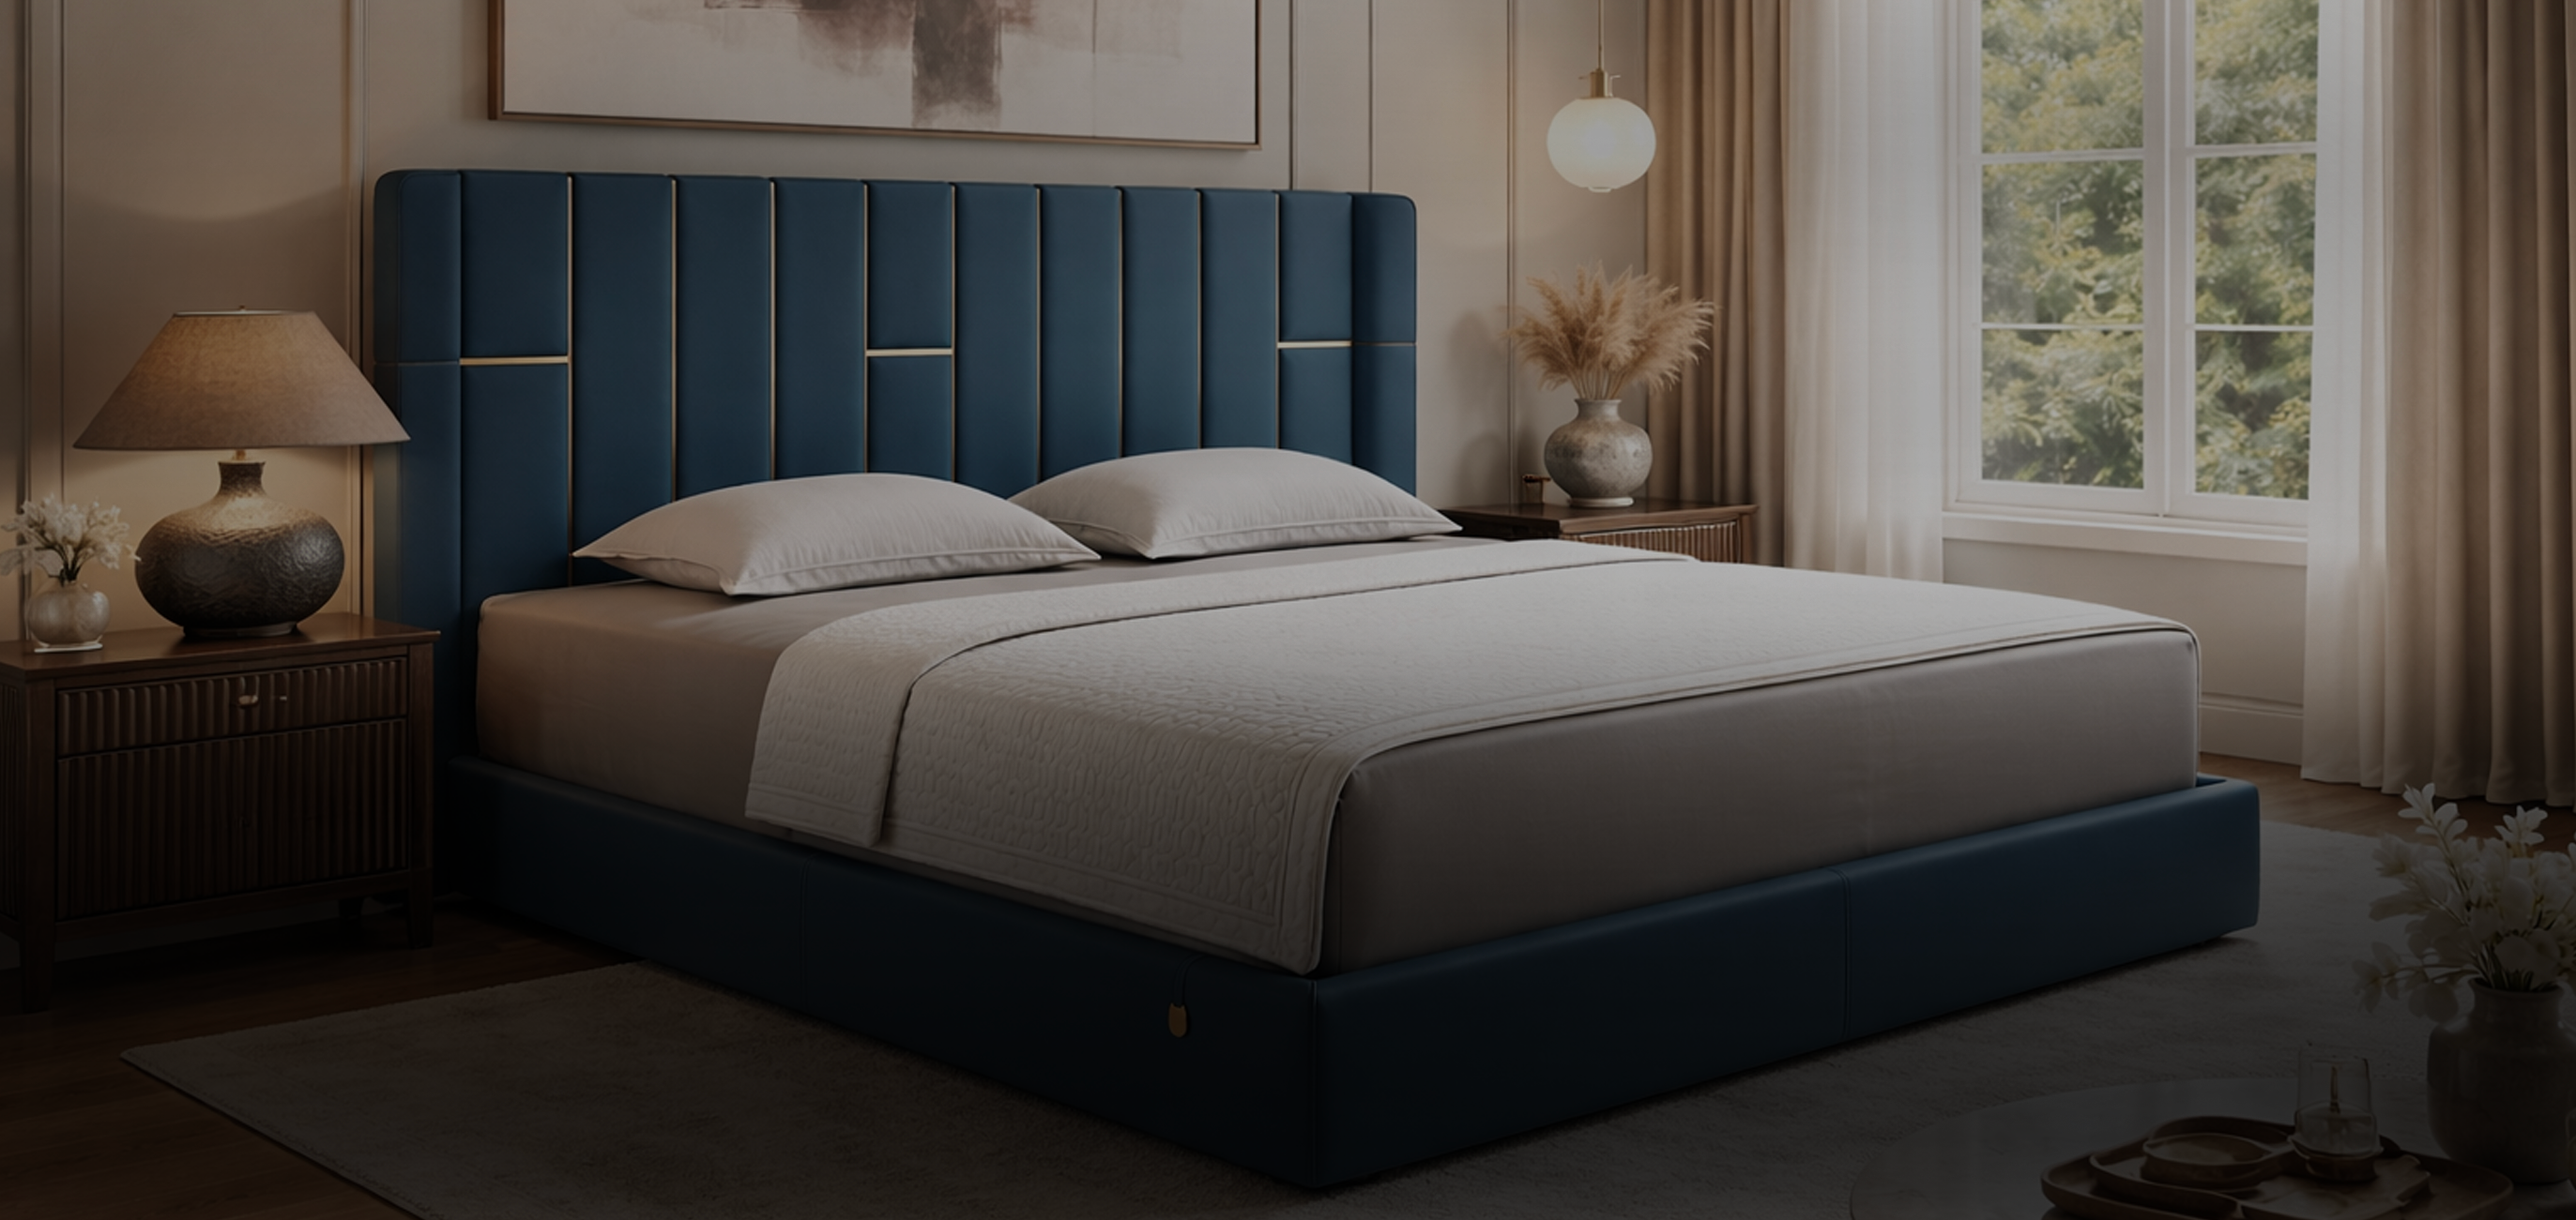
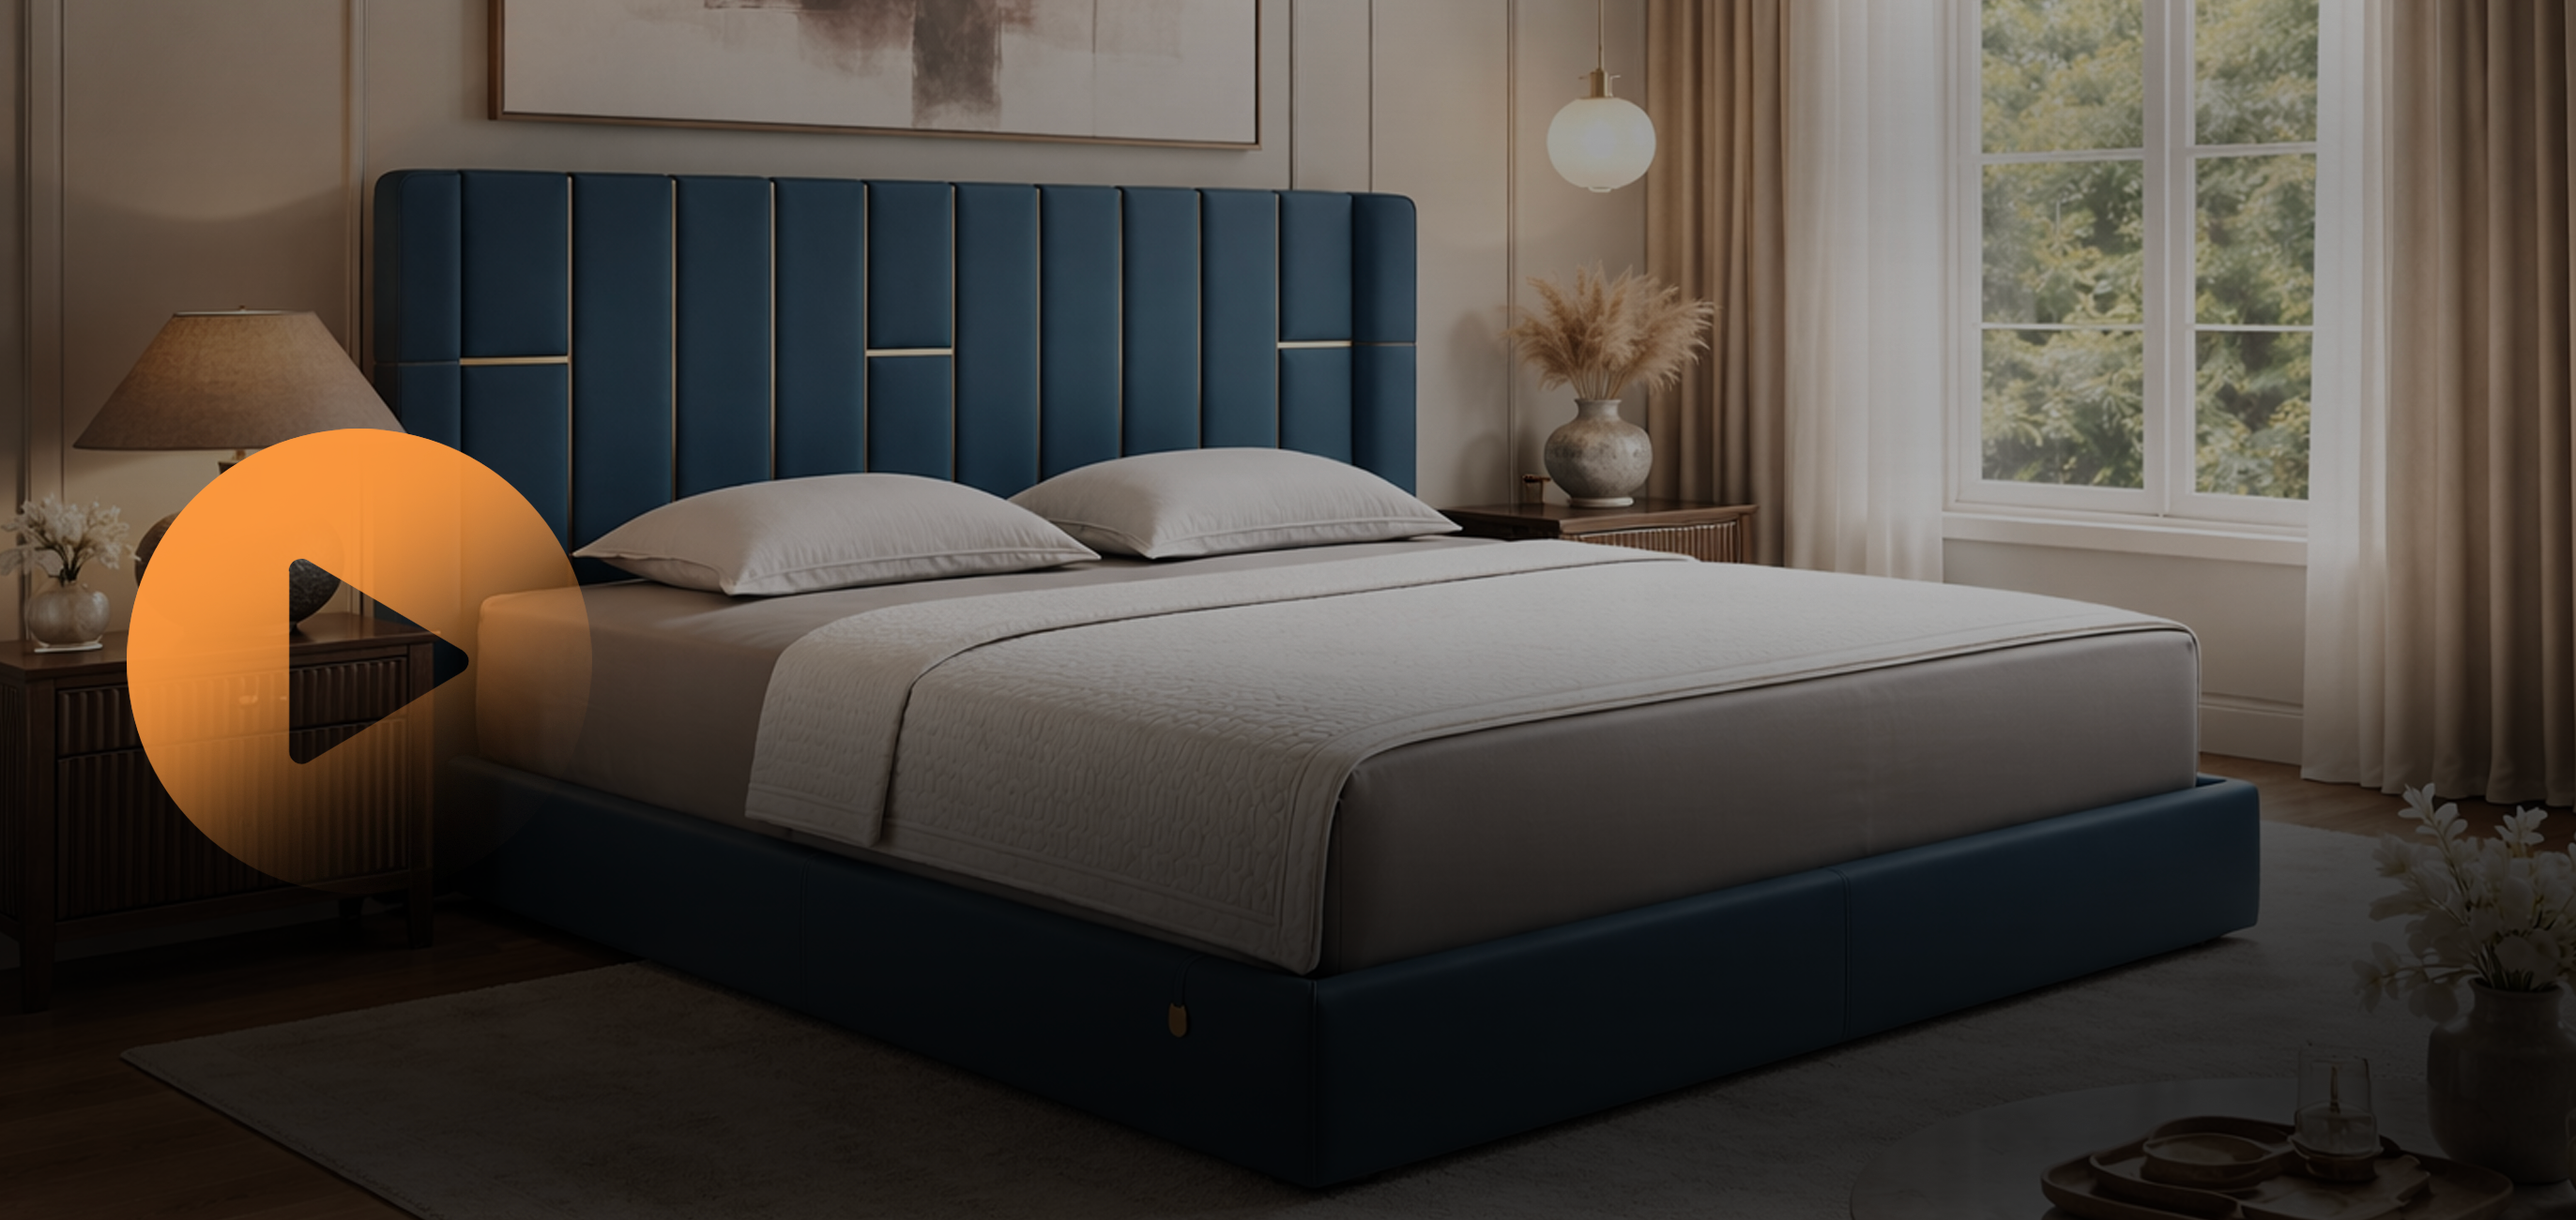
remove play button and associated styles from home and product pages

Changed region(s): [[0.031, 0.3382, 0.2477, 0.7379]]

diff --git a/style.css b/style.css
@@ -1299,35 +1299,7 @@ a {
     width: 100%;
 }
 
-.play-button {
-    width: 140px;
-    height: 140px;
-    background-color: rgba(242, 111, 33, 0.7);
-    border-radius: 50%;
-    display: flex;
-    justify-content: center;
-    align-items: center;
-    margin-left: 60px;
-    margin-right: 40px;
-    position: relative;
-    bottom: -10px;
-    z-index: 4;
-    cursor: pointer;
-    transition: transform 0.3s ease;
-}
 
-.play-button:hover {
-    transform: scale(1.05);
-}
-
-.play-icon {
-    width: 40px;
-    height: 40px;
-    color: #1a1a1a;
-    /* Dark play triangle */
-    margin-left: 8px;
-    /* Optically center triangle */
-}
 
 .bedroom-text-block {
     position: relative;
@@ -1438,16 +1410,7 @@ a {
         font-size: 56px;
     }
 
-    .play-button {
-        width: 120px;
-        height: 120px;
-        margin-right: -20px;
-    }
 
-    .play-icon {
-        width: 30px;
-        height: 30px;
-    }
 
     .bedroom-divider {
         margin: 0 20px 10px 20px;
@@ -1550,9 +1513,7 @@ a {
         display: none; /* Hidden on mobile stack */
     }
 
-    .play-button {
-        display: none; /* Removed as per user request */
-    }
+
 
     .bedroom-subtitle {
         color: #fff;

diff --git a/product.html b/product.html
@@ -118,11 +118,7 @@
                 <img src="images/br1.png" alt="Bedroom Promo" class="bedroom-banner-img">
                 <div class="bedroom-overlay"></div>
                 <div class="bedroom-content-wrapper">
-                    <div class="play-button">
-                        <svg width="32" height="32" viewBox="0 0 24 24" fill="currentColor" class="play-icon">
-                            <polygon points="5 3 19 12 5 21 5 3"></polygon>
-                        </svg>
-                    </div>
+
                     <div class="bedroom-text-block">
                         <h2 class="bedroom-heading">Beds That<br>Define Better Living</h2>
                         <span class="bedroom-support-text">Play Video to Explore Finishes</span>

diff --git a/index.html b/index.html
@@ -298,11 +298,7 @@
 
                 <!-- Banner Content -->
                 <div class="bedroom-content-wrapper">
-                    <div class="play-button">
-                        <svg width="32" height="32" viewBox="0 0 24 24" fill="currentColor" class="play-icon">
-                            <polygon points="5 3 19 12 5 21 5 3"></polygon>
-                        </svg>
-                    </div>
+
 
                     <div class="bedroom-text-block">
                         <h2 class="bedroom-heading">Beds That<br>Define Better Living</h2>
